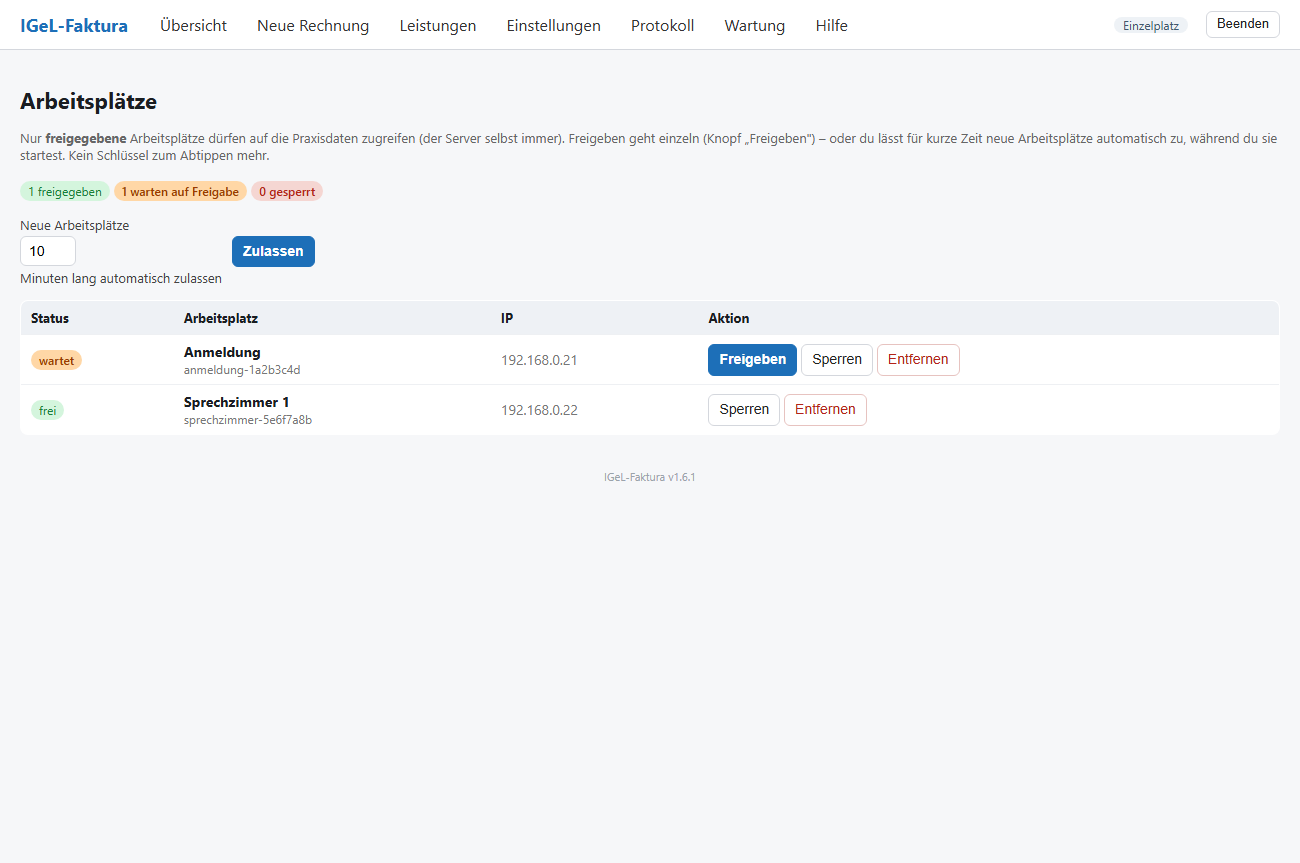
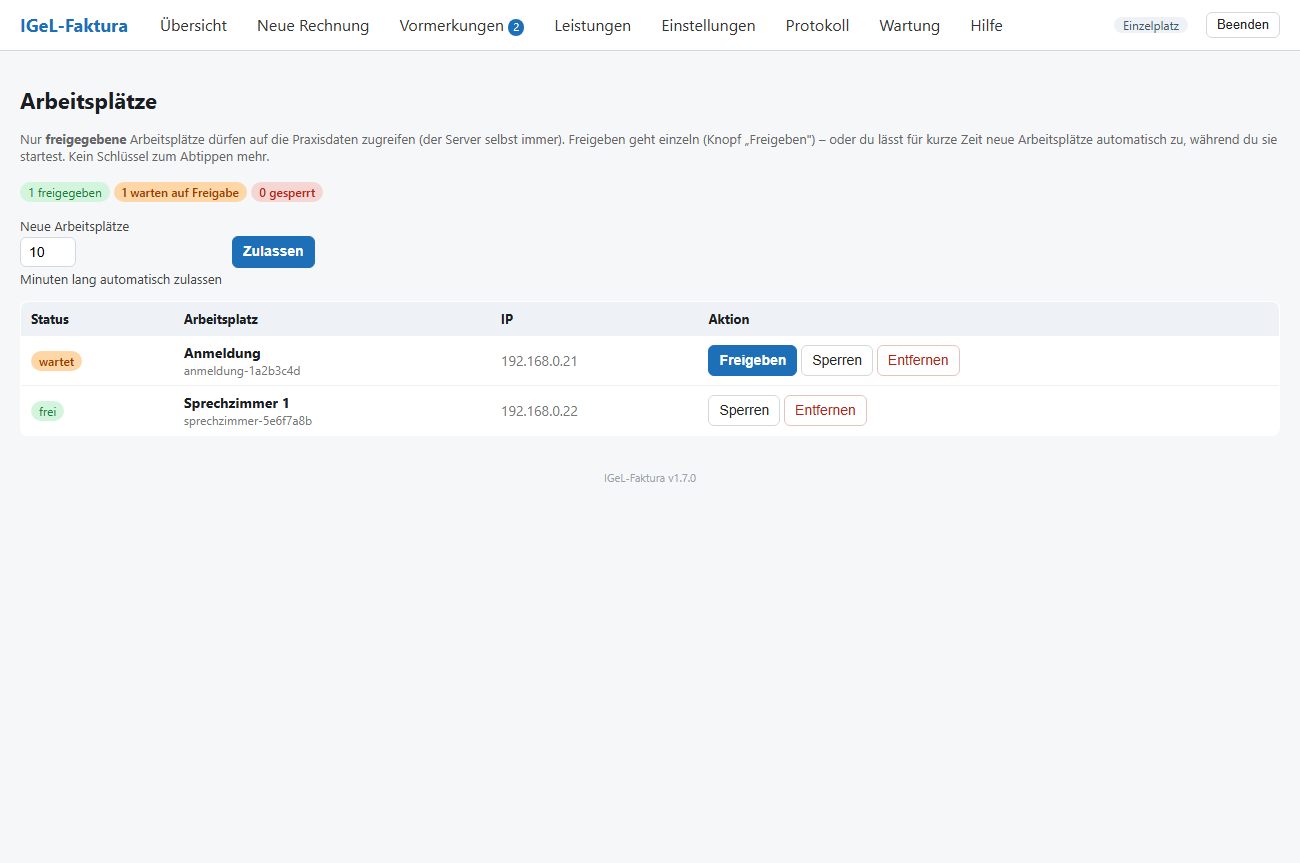
Release v1.8.0

diff --git a/CHANGELOG.md b/CHANGELOG.md
@@ -2,6 +2,66 @@
 
 Alle nennenswerten Änderungen an IGeL-Faktura. Versionierung nach [SemVer](https://semver.org/lang/de/).
 
+## v1.8.0 – 2026-07-28
+
+### Sammelrechnung: Behandlungen über mehrere Termine vormerken (Stufe 2)
+- **Laufende Behandlungen parken und später gemeinsam abrechnen.** Im Express kann jede Leistung
+  eines T2med-Patienten **vorgemerkt** werden (Knopf „Vormerken") – z. B. jede Sitzung einer
+  Impf- oder Plasmaserie am Behandlungstag. Preis und Datum werden dabei **eingefroren**.
+- Der Bereich **„Laufende Behandlung"** zeigt die bereits erfassten Sitzungen des Patienten; ein
+  Klick auf **„Jetzt abrechnen"** fasst sie zu **einer** Rechnung mit je Sitzung eigenem Datum
+  zusammen (PDF + Archiv + GDT wie bei jeder Rechnung). Vorgemerkt ≠ gebucht: erst das Abrechnen
+  erzeugt die revisionssichere Rechnung.
+- Neuer Menüpunkt **„Vormerkungen"** (mit Zähler): Übersicht aller Patienten mit offenen Serien –
+  damit nichts vergessen wird – plus ein **Editor**, in dem sich Datum und Preis je Sitzung bis
+  zum Abrechnen korrigieren und einzelne Sitzungen entfernen lassen.
+- Vormerken braucht die **T2med-Patientennummer** (eindeutiger Serien-Schlüssel).
+
+### Leistungsdatum je Position (Sammelrechnung, Stufe 1)
+- **Jede Rechnungsposition kann ein eigenes Leistungsdatum tragen** (Vorgabe = Rechnungsdatum).
+  Damit lassen sich mehrterminige Behandlungen – Impf- oder Plasma-/PRP-Serien – korrekt als
+  **eine** Rechnung mit **je Sitzung datierten** Positionen abbilden.
+- Im Erfassungs- und Express-Formular steht je Leistung ein kleines Datumsfeld; weicht ein Datum
+  vom Rechnungsdatum ab, weist das **PDF** je Position das Leistungsdatum aus (§12/§14-konform),
+  sonst bleibt die gewohnte Kurzform.
+
+### Storno vollständig in T2med rückgemeldet
+- **Storno-Rechnungen sind jetzt druckbar.** Das PDF trägt einen deutlichen Hinweis
+  „STORNIERT – diese Rechnung ist ungültig“, damit ein Ausdruck nie mit einer gültigen Rechnung
+  verwechselt wird.
+- **Storno schreibt eine GDT-Rückmeldung in die Patientenakte** – analog zur Rechnung, nur mit
+  **negativen Eurobeträgen** und dem Vermerk „Storno zu Rechnung &lt;Nr&gt;“. So ist der Vorgang
+  auch in T2med nachvollziehbar (fester Dateiname `Storno.gdt`, ohne PDF-Anhang). Im
+  Client/Server-Betrieb wird die Rückmeldung am **auslösenden Arbeitsplatz** geschrieben – dort,
+  wo dessen T2med liest.
+- Mahnungs- und Storno-GDT teilen sich denselben **dauerüberwachten Rückmelde-Ordner**; T2med muss
+  beide Dateinamen (`Mahnung.gdt`, `Storno.gdt`) in seinem Ordner-Import führen (siehe In-App-Hilfe,
+  Abschnitt „T2med / GDT-Anbindung“).
+
+### Robustheit / GDT
+- **Wahlweise nummeriertes GDT-Dateischema** (Einstellungen → Arbeitsplatz → „GDT-Dateischema"):
+  Neben den festen Dateinamen (Vorgabe) kann IGeL-Faktura die Austauschdateien nun auch mit
+  **hochzählender Endung** (`…001…999`) schreiben **und lesen** – passend zu T2meds Standard-Im-/
+  Export. Das umgeht das Überschreiben komplett. Vorgabe bleibt der feste Dateiname; nur umstellen,
+  wenn T2med entsprechend konfiguriert ist.
+- **GDT-Kennungen (Felder 8315/8316) sind jetzt zentral einstellbar** (Einstellungen → Praxis →
+  „GDT-Kennungen für T2med“) – für Rechnung, Storno und Mahnung gemeinsam. Vorgabe bleiben die
+  erprobten Werte `T2MEDIGEL`/`IGELT2MED`; ändern nur, wenn das T2med-Gerät andere IDs erwartet.
+- **GDT-Dateien werden atomar und serialisiert geschrieben**, damit T2med nie eine halb
+  geschriebene Datei liest. Holt T2med eine Datei nicht ab, weist ein Hinweis darauf hin, statt
+  sie stillschweigend zu überschreiben.
+- **Zeichensatz-Code 3** (GDT-Feld 9206) wird als **CP1252/„ANSI“** interpretiert (Windows-üblich)
+  – Sonderzeichen wie €, Anführungszeichen und Gedankenstrich gehen beim Lesen/Schreiben nicht
+  mehr verloren.
+
+### Bedienung & In-App-Hilfe
+- **Die In-App-Hilfe ist jetzt durchsuchbar.** Ein schwebendes Suchfeld (oben rechts, per
+  **Strg+F** oder Knopf) hebt alle Fundstellen hervor; mit **F3 / Shift+F3** (oder Enter /
+  Shift+Enter) springt man vor- und rückwärts von Treffer zu Treffer, mit **Esc** schließt es.
+- **Kritische Fehler hängen die Anwendung nicht mehr auf:** Statt im Hintergrund weiterzulaufen,
+  zeigt das Programm den Fehler an und beendet sich sauber – kein „Zombie"-Prozess mehr, der nur
+  über den Task-Manager zu beenden war.
+
 ## v1.7.0 – 2026-07-16
 
 ### IGeL-Faktura läuft jetzt auch unter Linux

diff --git a/README.md b/README.md
@@ -6,22 +6,54 @@ IGeL-Faktura erstellt Privat-/IGeL-Rechnungen aus den Patientendaten von **T2med
 
 ## Screenshots
 
-| Rechnungsübersicht | Neue Rechnung |
-|---|---|
-| ![Rechnungsübersicht](docs/uebersicht.png) | ![Neue Rechnung](docs/neue-rechnung.png) |
-| **Leistungen verwalten** | **Einstellungen** |
-| ![Leistungen](docs/leistungen.png) | ![Einstellungen](docs/einstellungen.png) |
-| **GOÄ-Katalog** | **Konto-Abgleich** |
-| ![GOÄ-Katalog](docs/goae.png) | ![Konto-Abgleich](docs/konto.png) |
-| **Arbeitsplätze (Freigabe)** | |
-| ![Arbeitsplätze](docs/arbeitsplaetze.png) | |
+> Tipp: Auf ein Bild klicken öffnet es groß (Zoom).
+
+**Rechnungsübersicht** – alle Rechnungen mit Status, Zeitraum-Filter und CSV-Export
+
+![Rechnungsübersicht](docs/uebersicht.png)
+
+**Neue Rechnung** – Leistungen wählen, Datum je Position, Live-Summe mit MwSt
+
+![Neue Rechnung](docs/neue-rechnung.png)
+
+**Offene Vormerkungen** – laufende Behandlungsserien sammeln und als *eine* Rechnung abrechnen
+
+![Offene Vormerkungen](docs/vormerkungen.png)
+
+<details>
+<summary><b>Weitere Ansichten</b> – Leistungsmenü, Einstellungen, GOÄ-Katalog, Konto-Abgleich, Mehrplatz</summary>
+
+<br>
+
+**Leistungsmenü verwalten**
+
+![Leistungen verwalten](docs/leistungen.png)
+
+**Einstellungen**
+
+![Einstellungen](docs/einstellungen.png)
+
+**GOÄ-Katalog durchsuchen**
+
+![GOÄ-Katalog](docs/goae.png)
+
+**Konto-Abgleich (Zahlungseingänge zuordnen)**
+
+![Konto-Abgleich](docs/konto.png)
+
+**Arbeitsplätze freigeben (Mehrplatz)**
+
+![Arbeitsplätze](docs/arbeitsplaetze.png)
+
+</details>
 
 ## Funktionen
 
 - **T2med / GDT-Anbindung** – der Patient kommt automatisch per GDT; die PDF-Rechnung und die GDT-Rückgabe landen wieder bei T2med.
 - **Privat-/IGeL-Rechnungen als PDF** (DIN-5008-Layout), mit **GiroCode / EPC-QR-Code** zum bequemen Bezahlen.
 - **Gemischte MwSt** (steuerfreie und steuerpflichtige Leistungen) auf einer Rechnung – korrekt nach Steuersätzen aufgeschlüsselt (§14 UStG).
-- **Revisionssicher / GoBD** – gebuchte Rechnungen werden nicht geändert oder gelöscht (Storno statt Korrektur), fortlaufende eindeutige Nummern, lückenloses Protokoll.
+- **Revisionssicher / GoBD** – gebuchte Rechnungen werden nicht geändert oder gelöscht (Storno statt Korrektur), fortlaufende eindeutige Nummern, lückenloses Protokoll. Ein **Storno** ist ausdruckbar (deutlich als ungültig gekennzeichnet) und wird als negativer **Karteieintrag an T2med** zurückgemeldet.
+- **Sammelrechnung für mehrterminige Behandlungen** – Sitzungen einer Impf- oder Plasma-/PRP-Serie am Behandlungstag **vormerken** und am Ende zu **einer** Rechnung mit je Sitzung eigenem **Leistungsdatum** abrechnen. Eine Übersicht „Offene Vormerkungen" sorgt dafür, dass keine Serie vergessen wird.
 - **Zahlungserinnerungen** für überfällige Rechnungen (mit optionaler GDT-Datei für T2med).
 - **Leistungsmenü** mit Kategorien, Drag-&-Drop-Sortierung und CSV-Import.
 - **GOÄ-Katalog** – das amtliche Gebührenverzeichnis durchsuchen und Positionen mit einstellbarem Steigerungsfaktor als eigene Leistungen übernehmen.
